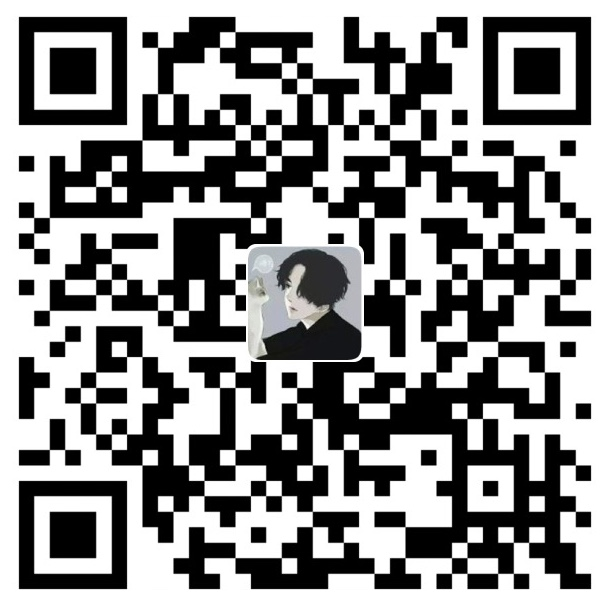
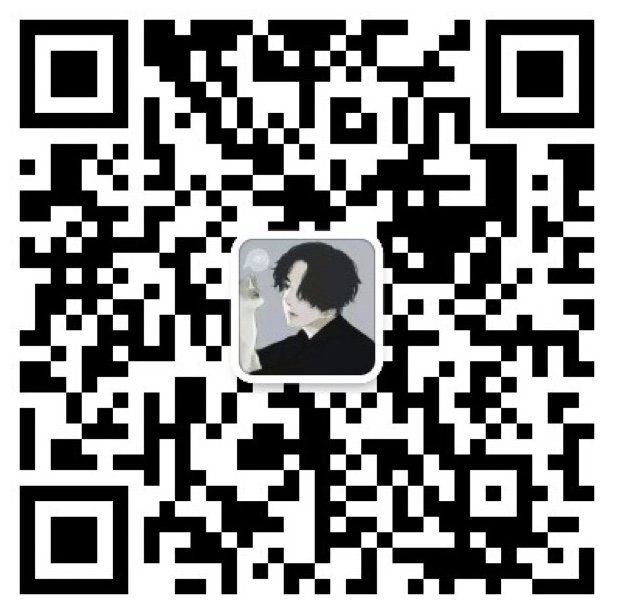
Site updated: 2019-02-08 17:19:30

diff --git a/2018/09/26/MarkDown语法学习/index.html b/2018/09/26/MarkDown语法学习/index.html
@@ -630,7 +630,7 @@
     
       <div>
         <div id="wechat_subscriber" style="display: block; padding: 10px 0; margin: 20px auto; width: 100%; text-align: center">
-  <img id="wechat_subscriber_qcode" src="/images/wechatqr.jpg" alt="C1ick3r wechat" style="width: 200px; max-width: 100%;">
+  <img id="wechat_subscriber_qcode" src="/images/wechat.jpg" alt="C1ick3r wechat" style="width: 200px; max-width: 100%;">
   <div>加个微信老铁？</div>
 </div>
 
@@ -651,7 +651,7 @@
 
     
       <div id="wechat" style="display: inline-block">
-        <img id="wechat_qr" src="/images/wechat.jpg" alt="C1ick3r WeChat Pay">
+        <img id="wechat_qr" src="/images/wechatpay.jpg" alt="C1ick3r WeChat Pay">
         <p>WeChat Pay</p>
       </div>
     

diff --git a/2019/02/06/First try/index.html b/2019/02/06/First try/index.html
@@ -490,7 +490,7 @@
     
       <div>
         <div id="wechat_subscriber" style="display: block; padding: 10px 0; margin: 20px auto; width: 100%; text-align: center">
-  <img id="wechat_subscriber_qcode" src="/images/wechatqr.jpg" alt="C1ick3r wechat" style="width: 200px; max-width: 100%;">
+  <img id="wechat_subscriber_qcode" src="/images/wechat.jpg" alt="C1ick3r wechat" style="width: 200px; max-width: 100%;">
   <div>加个微信老铁？</div>
 </div>
 
@@ -511,7 +511,7 @@
 
     
       <div id="wechat" style="display: inline-block">
-        <img id="wechat_qr" src="/images/wechat.jpg" alt="C1ick3r WeChat Pay">
+        <img id="wechat_qr" src="/images/wechatpay.jpg" alt="C1ick3r WeChat Pay">
         <p>WeChat Pay</p>
       </div>
     

diff --git a/css/main.css b/css/main.css
@@ -2159,7 +2159,7 @@ pre .javascript .function {
   width: 4px;
   height: 4px;
   border-radius: 50%;
-  background: #da06ff;
+  background: #4600a8;
 }
 .links-of-blogroll {
   font-size: 13px;
